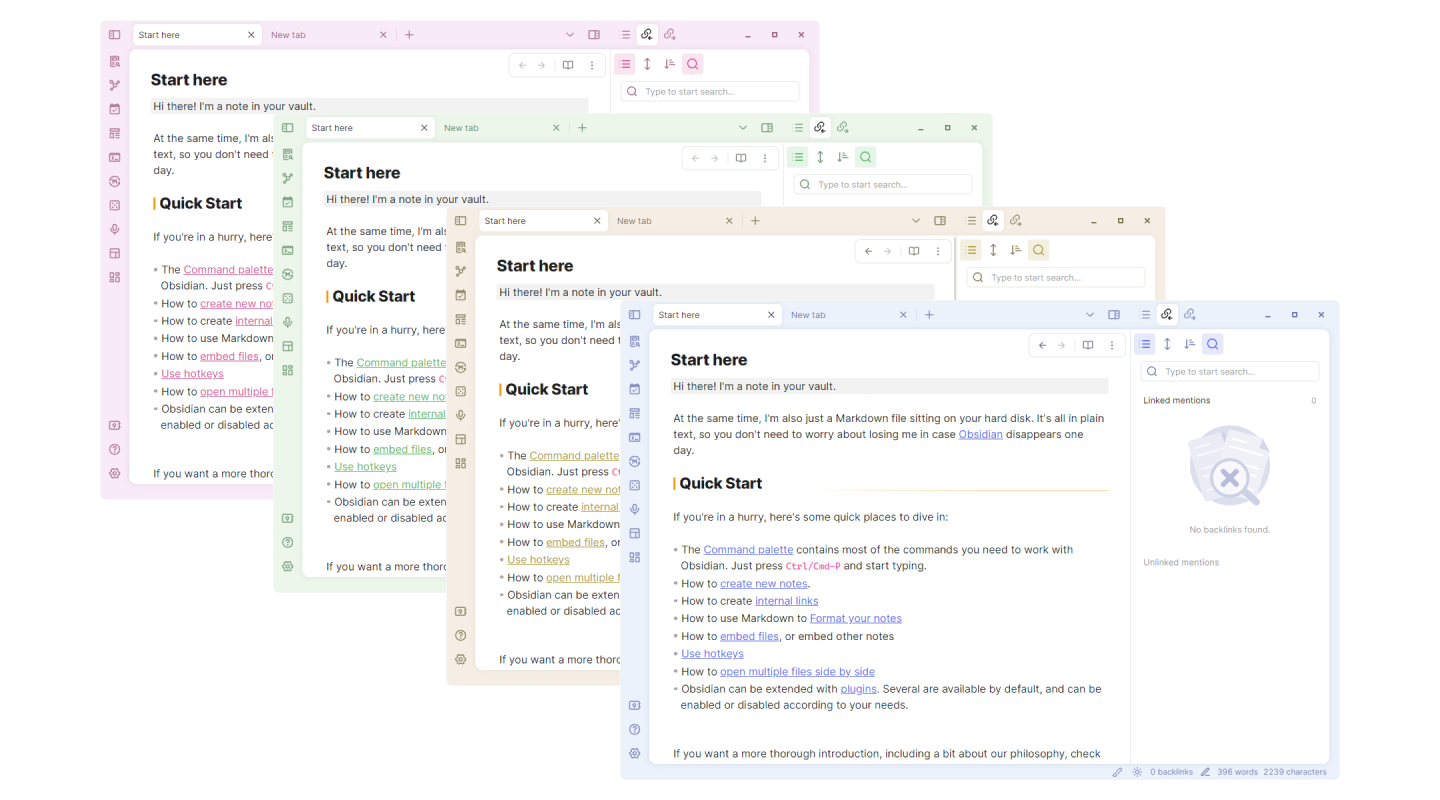
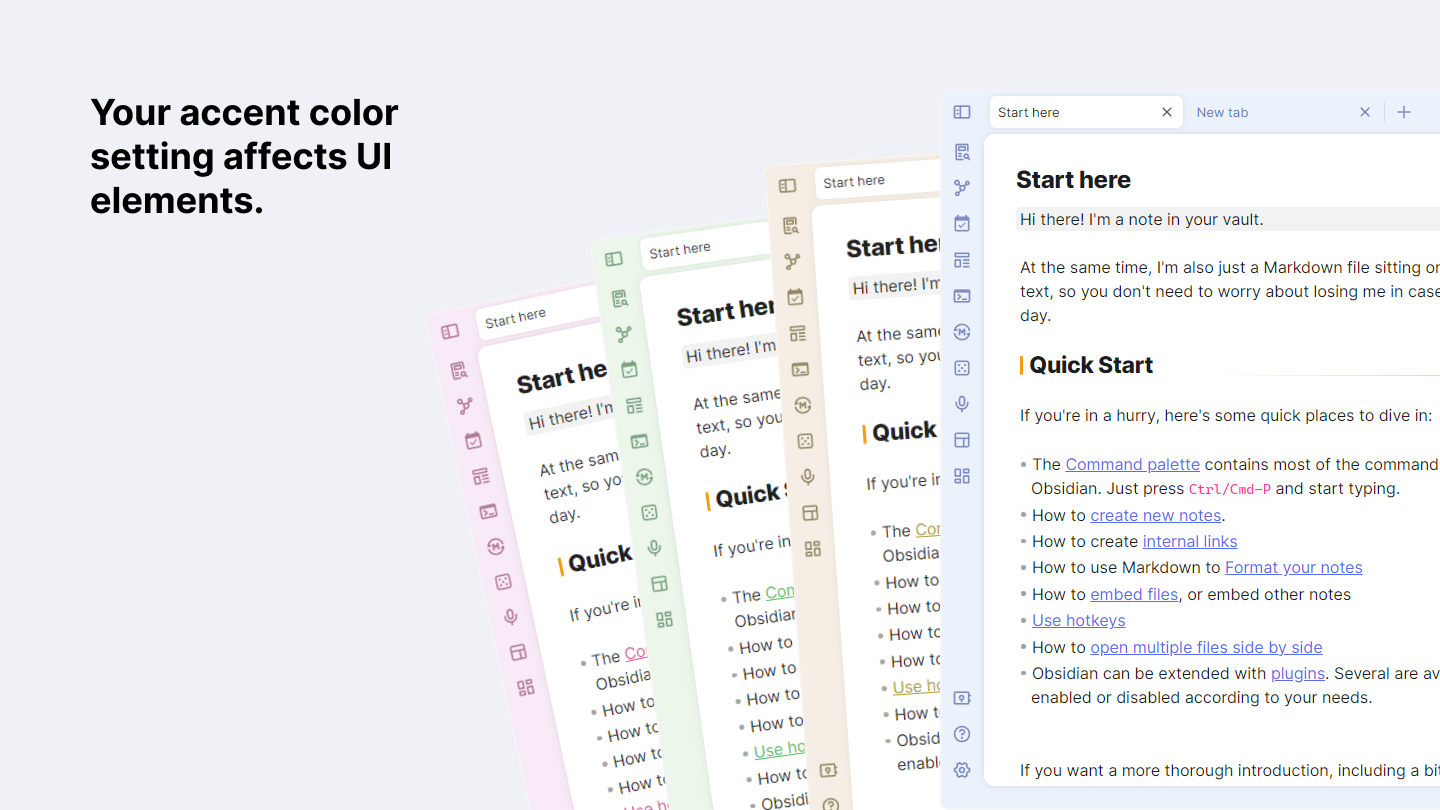
update

diff --git a/README.md b/README.md
@@ -8,25 +8,28 @@ A theme for obsidian.md, built on Windows.
 
 ### Auto hide
 
-Elements on **Border** (top tab bar, ribbon menu and status bar) can be autohidden (This feature needs [style settings](https://github.com/mgmeyers/obsidian-style-settings) plugin to turn on)
-
 ![screenshot](img/screenshot.gif)
-
-**Note**: This feature requires [Obsidian 1.1.8 - Electron 21](https://github.com/obsidianmd/obsidian-releases/releases/tag/v1.1.8-E21) or higher
-
-### Customize UI color
-
-Your accent color setting will affect UI elements.
-
-![screenshot](img/screenshot-1.png)
-![screenshot](img/screenshot-2.png)
+Enable in [style settings](https://github.com/mgmeyers/obsidian-style-settings) plugin.
+(This feature requires [Obsidian 1.1.8 - Electron 21](https://github.com/obsidianmd/obsidian-releases/releases/tag/v1.1.8-E21) or higher)
 
 ### Card layout
 
-Enable in [style settings](https://github.com/mgmeyers/obsidian-style-settings) plugin.
 ![screenshot](img/card.png)
+Enable in [style settings](https://github.com/mgmeyers/obsidian-style-settings) plugin.
 
-![screenshot](img/iPad.png)
+### Highly customizable
+
+![screenshot](img/screenshot-1.png)
+Customise your own UI style with [style settings](https://github.com/mgmeyers/obsidian-style-settings) plugin:
+
++ pink style
+![screenshot](img/pink.png)
++ Paper-like
+![screenshot](img/paper.png)
++ Translucent window
+![screenshot](img/Translucent.png)
++ Glassmorphism
+![screenshot](img/Glass.png)
 
 ## Credits
 
